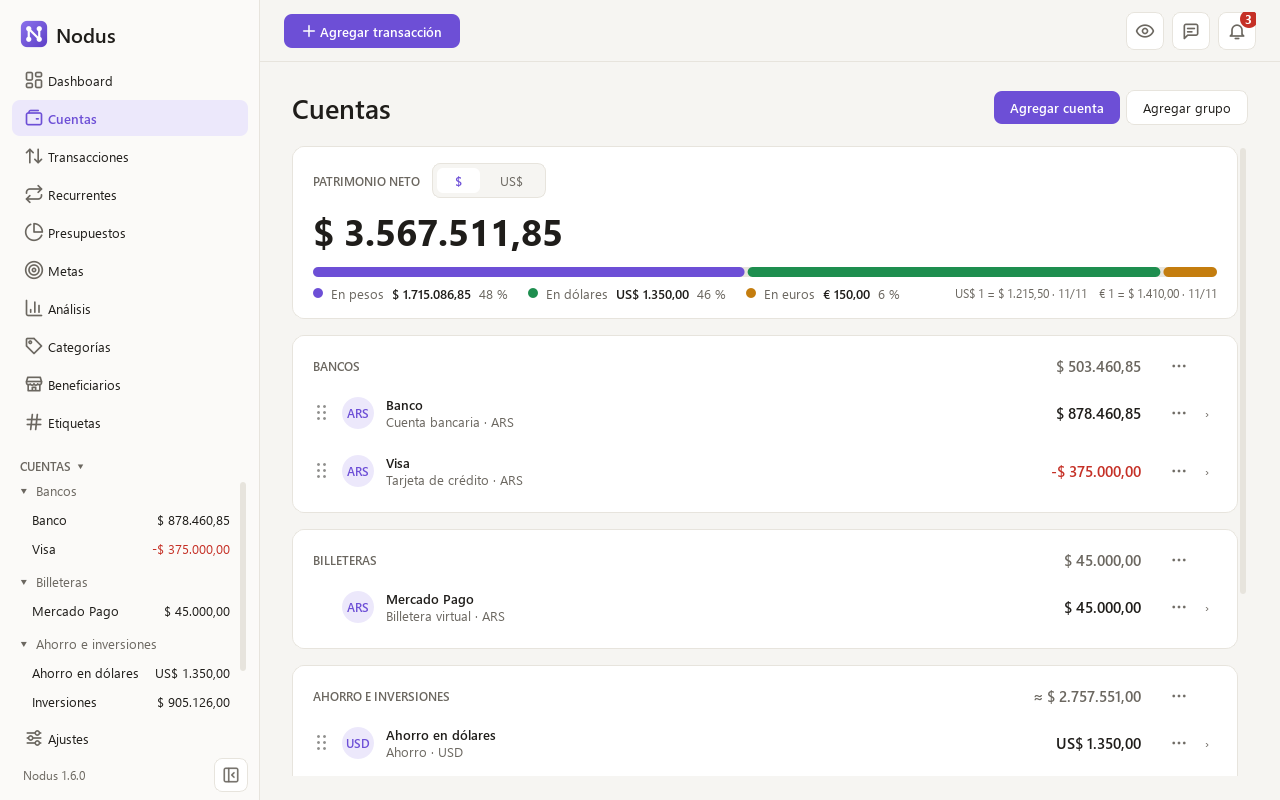
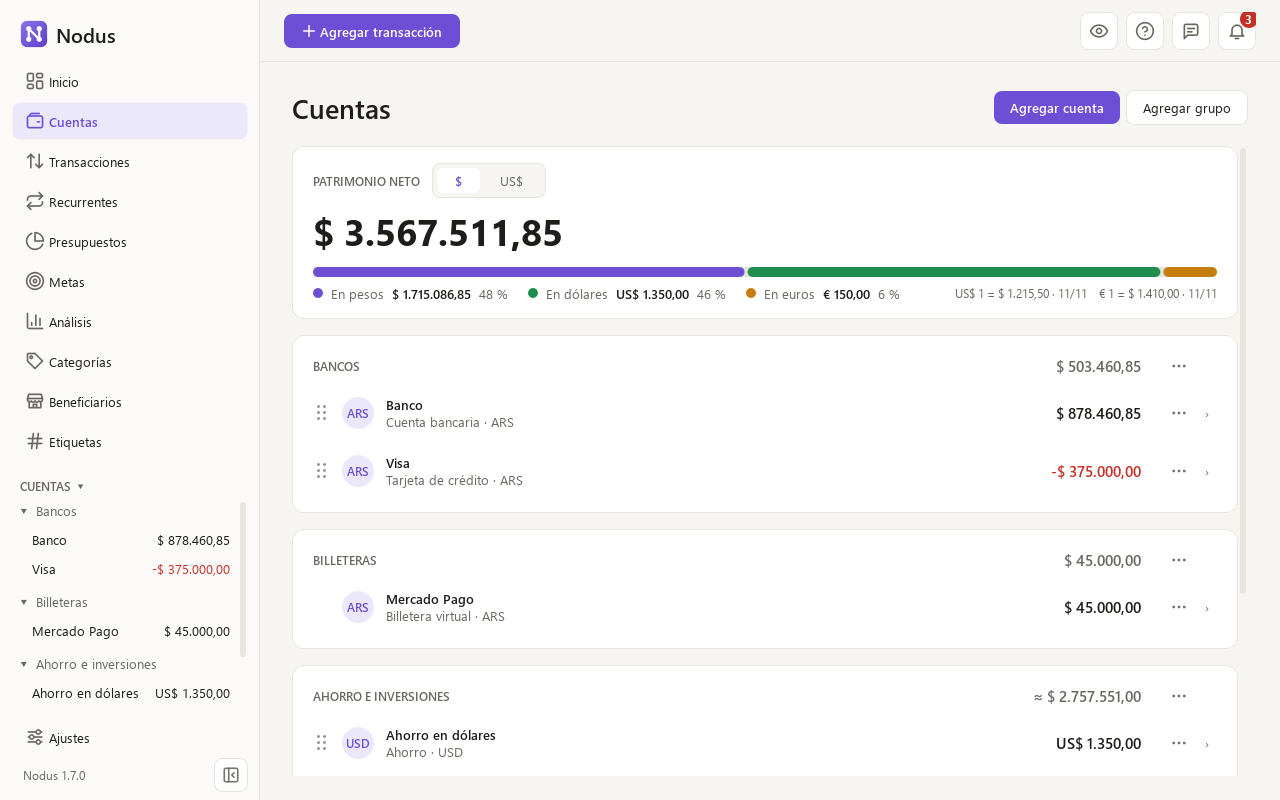
release: v1.7.0
Version 1.7.0, dated in the changelog. The roadmap in both READMEs moves v1.7
(Primeros pasos, the guided tour and Ayuda beside the window) to what is done,
the README screenshots are renewed with the new version, and a capture of
Ayuda open on a topic joins the guided tour's.

diff --git a/src/nodus/__init__.py b/src/nodus/__init__.py
@@ -1,6 +1,6 @@
 """Nodus: local-first personal finance desktop application."""
 
-__version__ = "1.6.0"
+__version__ = "1.7.0"
 
 # How Windows tells Nodus apart from other programs on the taskbar. The running process
 # and the installer's shortcuts must carry the same one: a pinned window whose ID no

diff --git a/README.es.md b/README.es.md
@@ -47,6 +47,11 @@ Mientras empiezas, la lista «Primeros pasos» de arriba te lleva a crear una cu
   <img src="docs/images/tour-light.png" alt="El recorrido guiado señalando «Agregar transacción», con el resto de la ventana oscurecido">
 </picture>
 
+<picture>
+  <source media="(prefers-color-scheme: dark)" srcset="docs/images/help-dark.png">
+  <img src="docs/images/help-light.png" alt="La Ayuda abierta al costado de la ventana en el tema de metas de ahorro, con Metas resaltada en el panel lateral">
+</picture>
+
 ### Llevar tus cuentas en pesos y en dólares
 Registras cada lugar donde tienes dinero, sea el banco, el efectivo, una billetera virtual como Mercado Pago, los ahorros en dólares o una tarjeta, y los saldos se calculan siempre a partir de los movimientos. Las ordenas arrastrándolas, y el panel lateral sigue ese orden. Para que muchas cuentas no se vuelvan un lío, las juntas en grupos como Bancos, Billeteras o Ahorro e inversiones: cada grupo muestra cuánto suma, y en el panel lateral se pliega hasta quedar en ese total. Cuando compras dólares, Nodus guarda los dos montos y te muestra la cotización que realmente obtuviste. También puedes tener euros y pesos chilenos, para un viaje o unos ahorros afuera, y se suman a tu patrimonio neto como todo lo demás. Las cotizaciones del día pueden llegar solas, el dólar que elijas y el euro y el peso chileno oficiales, o las cargas a mano. Los ahorros y las inversiones crecen solos, con intereses o precios: anotas cuánto vale hoy una, como lo muestra su app, y Nodus guarda la diferencia como rendimiento, que mueve tu saldo y tu patrimonio neto sin contar como ingreso. Un clic en una cuenta abre su página: cuánto entró y salió este mes y cómo cambió su saldo, cuánto rindió una inversión o cuánto le queda por pagar en cuotas a una tarjeta, los pagos recurrentes que salen de ella, su saldo en los últimos meses o en toda su vida, y todos sus movimientos.
 
@@ -145,9 +150,8 @@ Para actualizar, toca «Actualizar» cuando Nodus avise que hay una versión nue
 
 ## Hoja de ruta
 
-Nodus crece por versiones pequeñas y estables. La **v1.0**, la primera estable, incluye cuentas, transacciones, cotización del dólar, rendimiento de inversiones, la página de inicio, cargos recurrentes, presupuestos, beneficiarios, etiquetas, reembolsos, análisis, copias de seguridad y exportación. La **v1.1** sumó euros y pesos chilenos, billeteras virtuales, cuentas en el orden que quieras, cualquier color para categorías y etiquetas, abrir con Windows, enviar comentarios desde la aplicación y un resumen de las novedades después de cada actualización. La **v1.3** trajo actualizar con un clic, un menú en cada fila, selección de varias filas a la vez, una página para cada cuenta, beneficiario y etiqueta, y una interfaz más ordenada. La **v1.4** sumó compras en cuotas, cuánto de la variación del patrimonio se debe a la cotización, errores debajo del campo que los causa y sugerencias de beneficiario que ponen primero los que más usas. La **v1.5** hizo la interfaz más cómoda de leer: todo texto se lee sobre su fondo en los dos temas, los rótulos más chicos crecieron, las listas vacías hablan todas igual y «Reducir animaciones» deja quietos los gráficos y las cifras. La **v1.6** sumó metas de ahorro, grupos de cuentas que se pliegan en el panel lateral, una página más completa para cada cuenta y un recordatorio a fin de mes para guardar una copia fuera de la computadora. Lo que viene:
+Nodus crece por versiones pequeñas y estables. La **v1.0**, la primera estable, incluye cuentas, transacciones, cotización del dólar, rendimiento de inversiones, la página de inicio, cargos recurrentes, presupuestos, beneficiarios, etiquetas, reembolsos, análisis, copias de seguridad y exportación. La **v1.1** sumó euros y pesos chilenos, billeteras virtuales, cuentas en el orden que quieras, cualquier color para categorías y etiquetas, abrir con Windows, enviar comentarios desde la aplicación y un resumen de las novedades después de cada actualización. La **v1.3** trajo actualizar con un clic, un menú en cada fila, selección de varias filas a la vez, una página para cada cuenta, beneficiario y etiqueta, y una interfaz más ordenada. La **v1.4** sumó compras en cuotas, cuánto de la variación del patrimonio se debe a la cotización, errores debajo del campo que los causa y sugerencias de beneficiario que ponen primero los que más usas. La **v1.5** hizo la interfaz más cómoda de leer: todo texto se lee sobre su fondo en los dos temas, los rótulos más chicos crecieron, las listas vacías hablan todas igual y «Reducir animaciones» deja quietos los gráficos y las cifras. La **v1.6** sumó metas de ahorro, grupos de cuentas que se pliegan en el panel lateral, una página más completa para cada cuenta y un recordatorio a fin de mes para guardar una copia fuera de la computadora. La **v1.7** ayuda a empezar: una lista de primeros pasos en el Inicio, un recorrido guiado por la ventana y una ayuda al costado, que se abre con F1 en el tema de la página donde estás. Lo que viene:
 
-- **v1.7 — Primeros pasos:** una lista de primeros pasos, un recorrido guiado y ayuda a una tecla de distancia.
 - **Más adelante — Inversiones:** una sección propia para seguirlas.
 
 ## Tecnología

diff --git a/README.md b/README.md
@@ -49,6 +49,11 @@ While you are starting out, a «Primeros pasos» (first steps) list at the top w
   <img src="docs/images/tour-light.png" alt="The guided tour pointing at «Agregar transacción», with the rest of the window dimmed">
 </picture>
 
+<picture>
+  <source media="(prefers-color-scheme: dark)" srcset="docs/images/help-dark.png">
+  <img src="docs/images/help-light.png" alt="Ayuda open beside the window on the savings goals topic, with Metas lit up in the sidebar">
+</picture>
+
 ### Keep accounts in pesos and dollars
 Add every place where you keep money, from your bank, cash and virtual wallets like Mercado Pago to dollar savings or a credit card, and balances are always computed from your transactions. Drag them into the order you like, and the sidebar follows it. To keep many accounts tidy, gather them in groups such as Banks, Wallets or Savings and investments: each group shows what it adds up to, and in the sidebar it folds down to that one total. When you buy dollars, Nodus stores both amounts and shows the rate you actually got. Euros and Chilean pesos are welcome too, for travel money or savings abroad, and they add up to your net worth like everything else. Today's exchange rates can be fetched automatically, your choice of dollar plus the official euro and Chilean peso, or entered by hand. Savings and investments grow on their own, with interest or prices: write down what one is worth today, as its app shows it, and Nodus records the difference as a return that moves your balance and net worth without counting as income. Click an account to open its page: how much came in and went out this month and how its balance changed, what an investment returned or a card still owes in installments, the recurring payments due from it, its balance over the last months or its whole life, and every one of its transactions.
 
@@ -147,9 +152,8 @@ To update, click «Actualizar» when Nodus announces a new version: it downloads
 
 ## Roadmap
 
-Nodus grows in small, stable releases. **v1.0**, the first stable one, covers accounts, transactions, dollar exchange rates, investment returns, the home page, recurring charges, budgets, payees, tags, refunds, analysis, backups and export. **v1.1** added euros and Chilean pesos, virtual wallets, accounts in your own order, any color for categories and tags, opening with Windows, sending feedback from the app and a summary of what's new after each update. **v1.3** brought one-click updates, a menu on every row, choosing several rows at once, a page for each account, payee and tag, and a tidier interface. **v1.4** added purchases paid in installments, the share of net worth's change that comes from the exchange rate, errors shown under the field that causes them, and payee suggestions that put first the ones you use. **v1.5** made the interface easier on the eyes: every text reads on its background in both themes, the smallest labels grew, empty lists all speak the same way, and «Reducir animaciones» stills charts and figures. **v1.6** added savings goals, account groups that fold in the sidebar, a fuller page for each account and a month-end reminder to keep a backup off your computer. Coming next:
+Nodus grows in small, stable releases. **v1.0**, the first stable one, covers accounts, transactions, dollar exchange rates, investment returns, the home page, recurring charges, budgets, payees, tags, refunds, analysis, backups and export. **v1.1** added euros and Chilean pesos, virtual wallets, accounts in your own order, any color for categories and tags, opening with Windows, sending feedback from the app and a summary of what's new after each update. **v1.3** brought one-click updates, a menu on every row, choosing several rows at once, a page for each account, payee and tag, and a tidier interface. **v1.4** added purchases paid in installments, the share of net worth's change that comes from the exchange rate, errors shown under the field that causes them, and payee suggestions that put first the ones you use. **v1.5** made the interface easier on the eyes: every text reads on its background in both themes, the smallest labels grew, empty lists all speak the same way, and «Reducir animaciones» stills charts and figures. **v1.6** added savings goals, account groups that fold in the sidebar, a fuller page for each account and a month-end reminder to keep a backup off your computer. **v1.7** helps you get started: a checklist of first steps on the home page, a guided tour of the window, and help beside the window, opened with F1 on the topic of the page you are on. Coming next:
 
-- **v1.7 — Getting started:** a checklist of first steps, a guided tour and help one key away.
 - **Later — Investments:** a section of its own to follow them.
 
 ## Technology

diff --git a/CHANGELOG.md b/CHANGELOG.md
@@ -2,7 +2,7 @@
 
 Lo que trae cada versión, de la más nueva a la más vieja. Para actualizar, toca «Actualizar» cuando Nodus avise que hay una versión nueva: tus datos se conservan.
 
-## 1.7.0
+## 1.7.0 — 2026-11-14
 
 - La primera página se llama ahora «Inicio» y la de pagos que se repiten, «Recurrentes», con una línea que cuenta qué va ahí: los nombres en español y uno solo por cosa.
 - Cuando algo falla, como guardar una copia en un pendrive que se desconectó, Nodus dice qué pasó y qué hacer. El mensaje técnico queda detrás de «Ver detalle», con un botón para copiarlo si quieres avisarnos.
